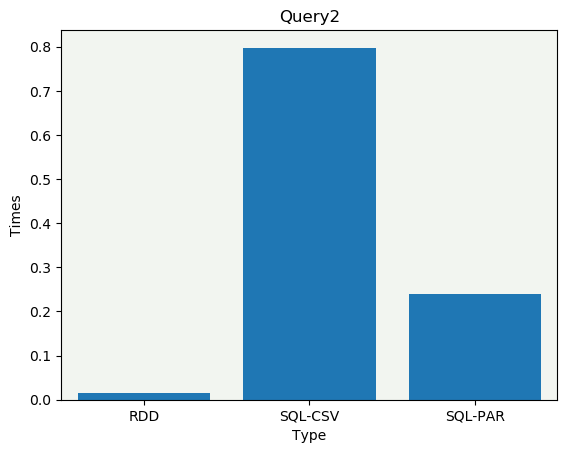
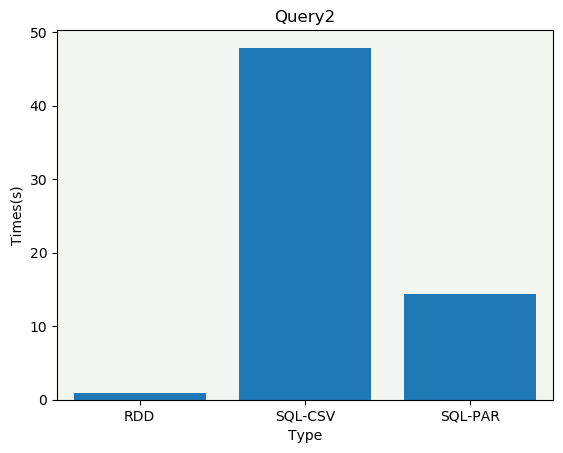
added plots

diff --git a/src/1st/query4-sql.py b/src/1st/query4-sql.py
@@ -7,7 +7,7 @@ import sys
 import time
 
 sys.stdout = open(sys.stdout.fileno(), mode='w', encoding='utf8', buffering=1)
-times = open('times.txt', 'a+')
+times = open('times2.txt', 'a+')
 
 spark = SparkSession.builder.appName("query4-sql").getOrCreate()
 
@@ -38,6 +38,7 @@ def get_quinquennium(x):
 spark.udf.register("countWords", count_review_words)
 spark.udf.register("quinquennium",get_quinquennium)
 
+start_time = time.time()
 
 movies_genres_csv = spark.read.csv('hdfs://master:9000/movie_data/movie_genres.csv',inferSchema='true')
 movies_data_csv = spark.read.csv('hdfs://master:9000/movie_data/movies.csv',inferSchema='true')
@@ -47,7 +48,6 @@ movies_data_csv.printSchema()
 
 movies_genres_csv.registerTempTable("movies_genres_csv")
 movies_data_csv.registerTempTable("movies_csv")
-start_time = time.time()
 spark.sql(" select quinq, avg(summary_words) as average_summary\
             from(\
             select title, genre, countWords(summary) as summary_words, quinquennium(year) as quinq \
@@ -65,6 +65,7 @@ end_time = time.time()
 
 times.write("Query4-sql-csv: "+str((end_time-start_time)/60)+'\n')
 
+start_time = time.time()
 
 movies_genres_parquet = spark.read.load('hdfs://master:9000/movie_data/movie_genres.parquet')
 movies_data_parquet = spark.read.load('hdfs://master:9000/movie_data/movies.parquet')
@@ -72,7 +73,6 @@ movies_data_parquet = spark.read.load('hdfs://master:9000/movie_data/movies.parq
 movies_genres_parquet.registerTempTable("movies_genres_parquet")
 movies_data_parquet.registerTempTable("movies_data_parquet")
 
-start_time = time.time()
 spark.sql(" select quinq, avg(summary_words) as average_summary\
             from(\
             select title, genre, countWords(summary) as summary_words, quinquennium(year) as quinq \

diff --git a/src/plot2.py b/src/plot2.py
@@ -1,0 +1,61 @@
+#!/bin/python3
+import matplotlib.pyplot as plt
+import numpy as np
+
+labels = ['Repartition', 'Repartition-100','Broadcast', 'Broadcast-100']
+
+times=[]
+
+
+with open('outputs/times_2nd.txt') as file:
+    for line in file:
+        tokens=line.split()
+        time = float(tokens[1])*60
+        times.append(time)
+
+print(times)
+x_ticks = np.arange(0, len(labels), 1)
+
+# for querys in times.items():
+# query = querys[0]
+y_Axis = times
+fig, ax = plt.subplots()
+ax.set_facecolor('#f2f5f0')
+ax.set_ylabel("Times(s)")
+ax.set_xlabel("Type")
+ax.set_xlim(-0.5, len(labels) - 0.5)
+ax.xaxis.set_ticks(x_ticks)
+ax.bar(x_ticks,y_Axis)
+ax.set_xticklabels(labels, rotation=0)
+plt.title("Repartition & Broadcast")
+plt.savefig("plot_times_100.png",bbox_inches="tight")
+
+####################
+
+labels = ['SQL-Not-Optimized','SQL-Optimized']
+
+times=[]
+
+
+with open('outputs/times_2nd_sql.txt') as file:
+    for line in file:
+        tokens=line.split()
+        time = float(tokens[2])*60
+        times.append(time)
+
+print(times)
+x_ticks = np.arange(0, len(labels), 1)
+
+# for querys in times.items():
+# query = querys[0]
+y_Axis = times
+fig, ax = plt.subplots()
+ax.set_facecolor('#f2f5f0')
+ax.set_ylabel("Times(s)")
+ax.set_xlabel("Type")
+ax.set_xlim(-0.5, len(labels) - 0.5)
+ax.xaxis.set_ticks(x_ticks)
+ax.bar(x_ticks,y_Axis)
+ax.set_xticklabels(labels, rotation=0)
+plt.title("SQL OptimizedSQL vs Not-Optimized")
+plt.savefig("plot_times_sql.png",bbox_inches="tight")

diff --git a/src/1st/query1-sql.py b/src/1st/query1-sql.py
@@ -7,14 +7,14 @@ import time
 import sys
 sys.stdout = open(sys.stdout.fileno(), mode='w', encoding='utf8', buffering=1)
 spark = SparkSession.builder.appName("query1-sql").getOrCreate()
-times = open('times.txt', 'a+')
+times = open('times2.txt', 'a+')
 
+start_time = time.time()
 
 df_csv = spark.read.csv('hdfs://master:9000/movie_data/movies.csv',inferSchema='true')
 
 df_csv.registerTempTable("movies_csv")
 
-start_time = time.time()
 df = spark.sql("select m1.year, title from \
             (select year(_c3) as year, max(((_c6-_c5)/_c5)*100) as profit from movies_csv where year(_c3) >= 2000 and (_c6 <> 0 and _c5 <> 0) group by year) as m1\
             join (select year(_c3) as year, _c1 as title, ((_c6-_c5)/_c5)*100 as profit from movies_csv) as m2\
@@ -24,11 +24,11 @@ times.write("Query1-sql-csv: "+str((end_time-start_time)/60)+'\n')
 
 df.show()
 # df.savetxt('home/user/src/1_sql_csv.txt', sep='\t', index=False)
+start_time = time.time()
 
 df_parquet = spark.read.load('hdfs://master:9000/movie_data/movies.parquet')
 
 df_parquet.registerTempTable("movies_parquet")
-start_time = time.time()
 df = spark.sql("select m1.year, title from \
             (select year(_c3) as year, max(((_c6-_c5)/_c5)*100) as profit from movies_parquet where year(_c3) >= 2000 and (_c6 <> 0 and _c5 <> 0) group by year) as m1\
             join (select year(_c3) as year, _c1 as title, ((_c6-_c5)/_c5)*100 as profit from movies_parquet) as m2\

diff --git a/src/1st/query3-sql.py b/src/1st/query3-sql.py
@@ -7,8 +7,10 @@ import time
 import sys
 
 sys.stdout = open(sys.stdout.fileno(), mode='w', encoding='utf8', buffering=1)
-times = open('times.txt', 'a+')
+times = open('times2.txt', 'a+')
 spark = SparkSession.builder.appName("query3-sql").getOrCreate()
+
+start_time = time.time()
 
 ratings_csv = spark.read.csv('hdfs://master:9000/movie_data/ratings.csv',inferSchema='true')
 movies_genres_csv = spark.read.csv('hdfs://master:9000/movie_data/movie_genres.csv',inferSchema='true')
@@ -18,7 +20,6 @@ movies_genres_csv.registerTempTable("movies_genres_csv")
 
 ratings_csv.printSchema()
 movies_genres_csv.printSchema()
-start_time = time.time()
 spark.sql(" select genres, count(distinct id) as total, avg(rating) as mean_rating\
              from \
             (select _c0 as id, _c1 as genres \
@@ -32,13 +33,14 @@ end_time = time.time()
 
 times.write("Query3-sql-csv: "+str((end_time-start_time)/60)+'\n')
 
+start_time = time.time()
+
 ratings_parquet = spark.read.load('hdfs://master:9000/movie_data/ratings.parquet')
 movies_genres_parquet = spark.read.load('hdfs://master:9000/movie_data/movie_genres.parquet')
 
 ratings_csv.registerTempTable("ratings_parquet")
 movies_genres_csv.registerTempTable("movies_genres_parquet")
 
-start_time = time.time()
 spark.sql(" select genres, count(distinct id) as total, avg(rating) as mean_rating\
              from \
             (select _c0 as id, _c1 as genres \

diff --git a/src/1st/query5-rdd.py b/src/1st/query5-rdd.py
@@ -5,7 +5,7 @@ from io import StringIO
 import csv
 import sys
 import time
-times = open('times.txt', 'a+')
+times = open('times2.txt', 'a+')
 sys.stdout = open(sys.stdout.fileno(), mode='w', encoding='utf8', buffering=1)
 
 def split_complex(x):
@@ -50,10 +50,11 @@ def final_map(x):
 spark = SparkSession.builder.appName("query5-rdd").getOrCreate()
 sc = spark.sparkContext
 
+start_time = time.time()
+
 rating = sc.textFile('hdfs://master:9000/movie_data/ratings.csv')
 genres = sc.textFile('hdfs://master:9000/movie_data/movie_genres.csv')
 movies = sc.textFile('hdfs://master:9000/movie_data/movies.csv')
-start_time = time.time()
 
 rating = rating.map(rating_map)
 genres = genres.map(genres_map)
@@ -96,7 +97,7 @@ min_rating_title = min_rating.map(lambda x: (x[1][1],(x[0],x[1][2]))).join(movie
 # (genre,(user_id,title,rating,count))
 # (genre,(title,rating))
 
-output = max_rating_title.join(min_rating_title).map(lambda x: (x[0],x[1][0][0],x[1][0][1],x[1][0][2],x[1][1][0],x[1][1][1],x[1][0][3]))
+output = max_rating_title.join(min_rating_title).sortByKey().map(lambda x: (x[0],x[1][0][0],x[1][0][1],x[1][0][2],x[1][1][0],x[1][1][1],x[1][0][3]))
 
 # print(max_rating_title.collect())
 # print(min_rating_title.collect())

diff --git a/src/2nd/repartition_100.py b/src/2nd/repartition_100.py
@@ -6,7 +6,7 @@ from itertools import product
 import csv
 import sys
 import time
-times = open('times_2nd.txt', 'w+')
+times = open('times_2nd.txt', 'a+')
 sys.stdout = open(sys.stdout.fileno(), mode='w', encoding='utf8', buffering=1)
 
 def split_complex(x):
@@ -59,10 +59,10 @@ def map_output(x):
         return ((movie_id, i, j) for i, j in product(list_ratings, list_movies))
 
 
-spark = SparkSession.builder.appName("repartition-join").getOrCreate()
+spark = SparkSession.builder.appName("repartition-join-100").getOrCreate()
 sc = spark.sparkContext
 start_time = time.time()
-movies = sc.textFile('hdfs://master:9000/movie_data/movies.csv')
+movies = sc.textFile('hdfs://master:9000/movie_data/movies_100.csv')
 rating = sc.textFile('hdfs://master:9000/movie_data/ratings.csv')
 
 movies = sc.parallelize(movies.map(split_complex).map(map_movie).take(100))
@@ -72,7 +72,7 @@ rating = rating.map(map_rating)
 output = rating.union(movies).map(map_list).reduceByKey(reducer).flatMap(map_output)
 
 end_time = time.time()
-times.write("Repartition: "+str((end_time-start_time)/60)+'\n')
+times.write("Repartition-100: "+str((end_time-start_time)/60)+'\n')
 output_list = output.collect()
 
 print(output_list)

diff --git a/src/1st/query2-sql.py b/src/1st/query2-sql.py
@@ -7,15 +7,16 @@ import time
 import sys
 
 sys.stdout = open(sys.stdout.fileno(), mode='w', encoding='utf8', buffering=1)
-times = open('times.txt', 'a+')
+times = open('times2.txt', 'a+')
 spark = SparkSession.builder.appName("query2-sql").getOrCreate()
+
+start_time = time.time()
 
 df_csv = spark.read.csv('hdfs://master:9000/movie_data/ratings.csv',inferSchema='true')
 
 df_csv.printSchema()
 
 df_csv.registerTempTable("ratings_csv")
-start_time = time.time()
 spark.sql(" select count(distinct id)/(select count(distinct(_c0)) from ratings_csv) as percentage\
             from \
             (select _c0 as id, avg(_c2) as rating \
@@ -26,10 +27,11 @@ end_time = time.time()
 
 times.write("Query2-sql-csv: "+str((end_time-start_time)/60)+'\n')
 
+start_time = time.time()
+
 df_parquet = spark.read.load('hdfs://master:9000/movie_data/ratings.parquet')
 
 df_parquet.registerTempTable("ratings_parquet")
-start_time = time.time()
 spark.sql(" select count(distinct id)/(select count(distinct(_c0)) from ratings_parquet) as percentage\
             from \
             (select _c0 as id, avg(_c2) as rating \

diff --git a/src/1st/query5-sql-csv.py b/src/1st/query5-sql-csv.py
@@ -5,12 +5,14 @@ from io import StringIO
 import csv
 import sys
 import time
-times = open('times.txt', 'a+')
+times = open('times2.txt', 'a+')
 
 
 sys.stdout = open(sys.stdout.fileno(), mode='w', encoding='utf8', buffering=1)
 
 spark = SparkSession.builder.appName("query5-sql").getOrCreate()
+
+start_time = time.time()
 
 genres_csv = spark.read.csv('hdfs://master:9000/movie_data/movie_genres.csv',inferSchema='true')
 movies_csv = spark.read.csv('hdfs://master:9000/movie_data/movies.csv',inferSchema='true')
@@ -23,7 +25,6 @@ ratings_csv = spark.read.csv('hdfs://master:9000/movie_data/ratings.csv',inferSc
 genres_csv.registerTempTable("genres")
 movies_csv.registerTempTable("movies")
 ratings_csv.registerTempTable("ratings")
-start_time = time.time()
 join_genres_rating = spark.sql("""  select movie_id,genre,user_id,rating
                                     from
                                     (select _c0 as user_id, _c1 as movie_id, _c2 as rating

diff --git a/src/2nd/broadcast_100.py b/src/2nd/broadcast_100.py
@@ -5,7 +5,8 @@ from io import StringIO
 import csv
 import sys
 import time
-file = open('times.txt', 'a+')
+times = open('times_2nd.txt', 'a+')
+
 sys.stdout = open(sys.stdout.fileno(), mode='w', encoding='utf8', buffering=1)
 
 def split_complex(x):
@@ -38,6 +39,7 @@ def join_broadcast(x):
 
 spark = SparkSession.builder.appName("broadcast-100").getOrCreate()
 sc = spark.sparkContext
+start_time = time.time()
 
 movies = sc.textFile('hdfs://master:9000/movie_data/movies_100.csv')
 rating = sc.textFile('hdfs://master:9000/movie_data/ratings.csv')
@@ -47,5 +49,8 @@ br = sc.broadcast(dict(movies.map(split_complex).map(map_movie).collect()))
 rating = rating.map(map_rating)
 
 join_ratings_movies = rating.filter(filter_keys).map(join_broadcast)
+end_time = time.time()
 
-print(join_ratings_movies.first())
+times.write("Broadcast_100: "+str((end_time-start_time)/60)+'\n')
+
+print(join_ratings_movies.collect())

diff --git a/src/1st/query5-sql-par.py b/src/1st/query5-sql-par.py
@@ -5,11 +5,13 @@ from io import StringIO
 import csv
 import sys
 import time
-times = open('times.txt', 'a+')
+times = open('times2.txt', 'a+')
 
 sys.stdout = open(sys.stdout.fileno(), mode='w', encoding='utf8', buffering=1)
 
 spark = SparkSession.builder.appName("query5-sql").getOrCreate()
+
+start_time = time.time()
 
 movies_genres_parquet = spark.read.load('hdfs://master:9000/movie_data/movie_genres.parquet')
 movies_data_parquet = spark.read.load('hdfs://master:9000/movie_data/movies.parquet')
@@ -22,7 +24,6 @@ ratings_parquet.printSchema()
 movies_genres_parquet.registerTempTable("movies_genres_parquet")
 movies_data_parquet.registerTempTable("movies_parquet")
 ratings_parquet.registerTempTable("ratings_parquet")
-start_time = time.time()
 temp1 = spark.sql("select user_id,rating,movie_id,genre\
                     from\
                     (select _c0 as user_id, _c1 as movie_id, _c2 as rating\

diff --git a/src/1st/query2-rdd.py b/src/1st/query2-rdd.py
@@ -6,7 +6,7 @@ import time
 import sys
 
 sys.stdout = open(sys.stdout.fileno(), mode='w', encoding='utf8', buffering=1)
-times = open('times.txt', 'a+')
+times = open('times2.txt', 'a+')
 
 def mapper1(x):
     tokens=x.split(",")
@@ -27,9 +27,10 @@ def mapper3(x):
 
 spark = SparkSession.builder.appName("query1-rdd").getOrCreate()
 sc = spark.sparkContext
+start_time = time.time()
+
 
 rdd = sc.textFile('hdfs://master:9000/movie_data/ratings.csv')
-start_time = time.time()
 rdd_some = rdd.map(mapper1).reduceByKey(lambda x,y: (x[0]+y[0],x[1]+y[1])).map(mapper2).filter(lambda x: x[1]>3.0).map(lambda x: (1,1)).reduceByKey(lambda x,y: x+y)
 
 rdd_total = rdd.map(mapper3).reduceByKey(lambda x,y: 0).map(lambda x: (1,1)).reduceByKey(lambda x,y: x+y)

diff --git a/src/1st/query4-rdd.py b/src/1st/query4-rdd.py
@@ -8,7 +8,7 @@ import re
 import time
 
 sys.stdout = open(sys.stdout.fileno(), mode='w', encoding='utf8', buffering=1)
-times = open('times.txt', 'a+')
+times = open('times2.txt', 'a+')
 def split_complex(x):
     return list(csv.reader(StringIO(x), delimiter=','))[0]
 
@@ -65,10 +65,11 @@ def filter1(x):
 spark = SparkSession.builder.appName("query4-rdd").getOrCreate()
 sc = spark.sparkContext
 
+start_time = time.time()
+
 
 movies = sc.textFile('hdfs://master:9000/movie_data/movies.csv')
 genres = sc.textFile('hdfs://master:9000/movie_data/movie_genres.csv')
-start_time = time.time()
 movies_t = movies.map(split_complex).map(mapper1)
 genres_t = genres.map(mapper2).filter(filter1)
 
